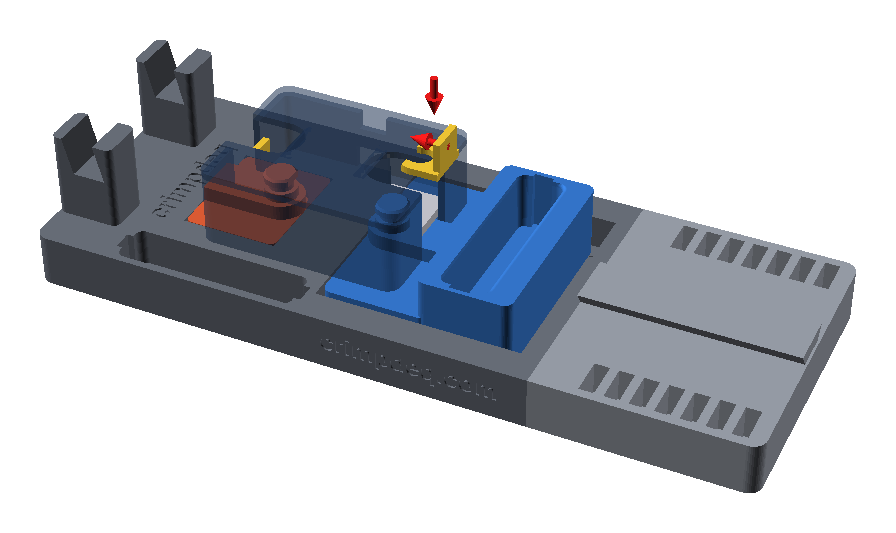
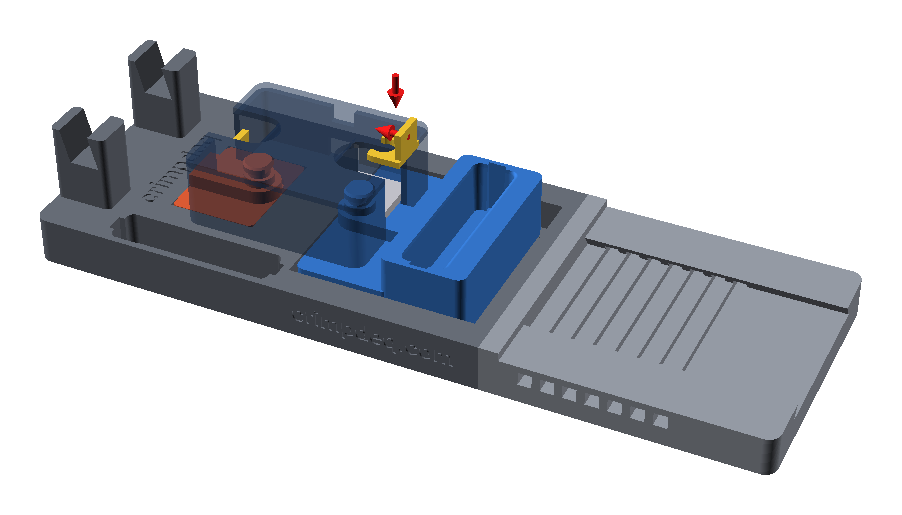
docs: describe the lowered palm rest and side keys

Changed region(s): [[0.0312, 0.0621, 0.9688, 0.932]]

diff --git a/docs/src/requirements.md b/docs/src/requirements.md
@@ -57,12 +57,16 @@ them replaces testing printed parts.
 
 ## Palm rest
 
-- The solid heel deck is level with the pocket mouth. The palm bolster rises
-  10–14 mm above it and at least 2 mm above the key heads.
+- The heel deck (the rest's plate and the rear deck beside it) lies between
+  the fingertips on the 20 and 25 mm edges (Z = −10 mm), so the heel and the
+  fingers pull in line. The palm bolster rises 10–14 mm above it.
+- Nothing but the bolster stands above the heel deck around the hand.
 - The rest has seven positively locked positions, for hand openings of 25 to
   85 mm.
-- The rest is captured on a dovetail rail and locked by two printed index
-  keys in deck slots outside the palm area. Adjustment needs no tools.
+- The rest slides in a dovetail channel sunk into the rear base half, which
+  carries the whole heel plate at every position. Two printed index keys,
+  pushed in under the deck from the sides of the base, lock it. Adjustment
+  needs no tools.
 - Either index key alone is screened for the entire design force, and both
   travel extremes are checked after every geometry change.
 
@@ -97,11 +101,11 @@ target: the 481 N rating times the 2.0 design factor.
 | Lug neck pulled by the clip, across the layers | 4.4 MPa | 12 MPa |
 | Finger lip bending over the full 25 mm edge | 18.0 MPa | 30 MPa, bending |
 | Grip side and back walls in tension | 1.2 MPa | 12 MPa |
-| Either index key alone, in shear | 10.0 MPa | 12 MPa |
-| Key bearing in the rest wing / base slot | 5.5 / 4.3 MPa | 12 MPa, bearing |
-| Base slot ligament between positions, in shear | 9.3 MPa | 12 MPa |
-| Palm bolster root, across the layers | 0.9 MPa | 12 MPa |
-| Rail flanks holding the rest down at its shortest engagement | 3.6 MPa | 6 MPa |
+| Either index key alone, in shear at the channel floor | 4.3 MPa | 12 MPa |
+| Key bearing in the rest's groove / the floor groove | 10.4 / 7.4 MPa | 12 MPa, bearing |
+| Rib between neighbouring floor grooves, in shear | 7.0 MPa | 12 MPa |
+| Palm bolster root, across the layers | 1.1 MPa | 12 MPa |
+| Channel lips holding the rest down | 0.8 MPa | 6 MPa |
 
 The clip check takes the 10 mm edge's 4 mm offset, reacted between the clip
 and the tongue seat 10 mm from the eye centre. The base joint is in

diff --git a/docs/src/build/assembly.md b/docs/src/build/assembly.md
@@ -46,12 +46,14 @@ up.
 
 ![Sliding the palm rest onto the rail](../images/rest_on.png)
 
-Slide the palm rest onto the rail from the rear end, bolster toward the grip.
-Drop one key through each side wing into the deck slot below.
+Slide the palm rest into the channel from the rear end, bolster toward the
+grip. Push one key into the side of the base from each side, through the
+groove under the bolster, until its head meets the base.
 
-The seven slots set the opening between the finger lip and the palm face,
-from 25 to 85 mm in 10 mm steps. To change it, lift out both keys, slide the
-rest, and drop them in again.
+The seven key holes along each side, counted from the grip, set the opening
+between the finger lip and the palm face: 25 to 85 mm in 10 mm steps. To
+change it, pull both keys out by their heads, slide the rest until its groove
+lines up with the new holes, and push them in again.
 
 ## 6. Stoppers and phone
 

diff --git a/README.md b/README.md
@@ -11,12 +11,14 @@ entirely in plastic with no hardware to buy.
 - **Edge depths:** 25, 20, 15 and 10 mm, set with two stackable stoppers (5
   and 10 mm).
 - **Palm rest:** 25–85 mm from the outside of the finger lip to the palm face,
-  seven positions in 10 mm steps.
+  seven positions in 10 mm steps, with the heel level with the fingertips on
+  the 20 and 25 mm edges.
 - **Phone slot:** phones up to about 13 mm thick in their case, portrait or
   landscape, leaned back 15°.
-- **Size:** 311 × 122 mm base, 60 mm tall at the phone stand.
+- **Size:** 349 × 122 mm base (138 mm wide with the keys fitted), 60 mm tall
+  at the phone stand.
 - **Printing:** no supports and no hardware; the base splits into two halves
-  for a 256 mm bed; about 680 g of PETG.
+  for a 256 mm bed; about 640 g of PETG.
 - **Compatibility:** [crimpdeq-case](https://github.com/crimpdeq/crimpdeq-case)
   v2.0.0 and earlier.
 

diff --git a/docs/src/build/index.md b/docs/src/build/index.md
@@ -3,7 +3,7 @@
 ![Assembled platform](../images/overview.png)
 
 The platform prints on a Bambu Lab A1, or any printer with a 256 mm bed, in
-about 680 g of PETG. There is nothing else to buy. It holds the Crimpdeq case
+about 640 g of PETG. There is nothing else to buy. It holds the Crimpdeq case
 from [crimpdeq-case v2.0.0](https://github.com/crimpdeq/crimpdeq-case/tree/v2.0.0)
 or any earlier release.
 

diff --git a/docs/src/build/printing.md b/docs/src/build/printing.md
@@ -45,7 +45,7 @@ sparser, using height range modifiers:
 | Object | Range | Infill |
 |---|---|---|
 | `base_front` | 22.6–59.6 mm | 10% |
-| `rest` | 11–29.5 mm | 15% |
+| `rest` | 6–18 mm | 15% |
 | `anchor` | 0–11.5 mm | 40% |
 
 No part needs supports. Keep them off: they would scar the faces that the
